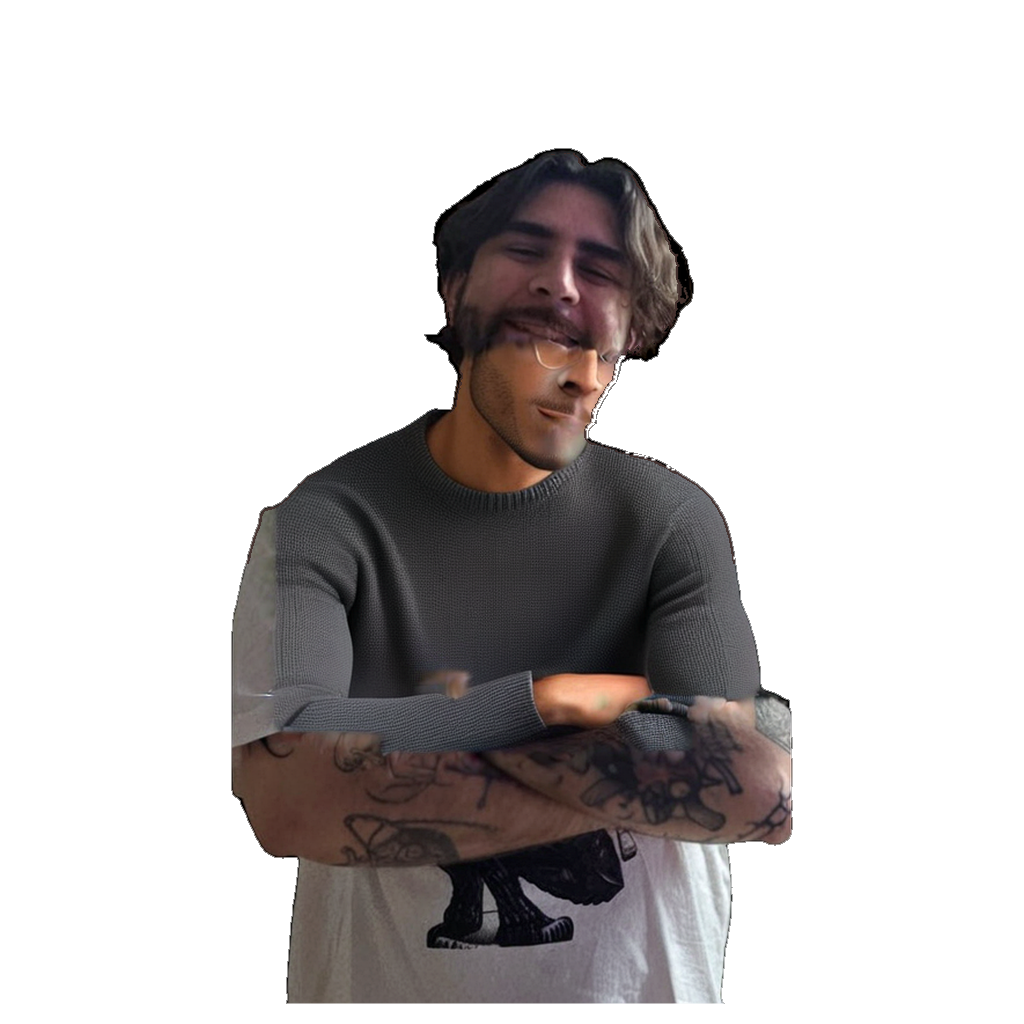
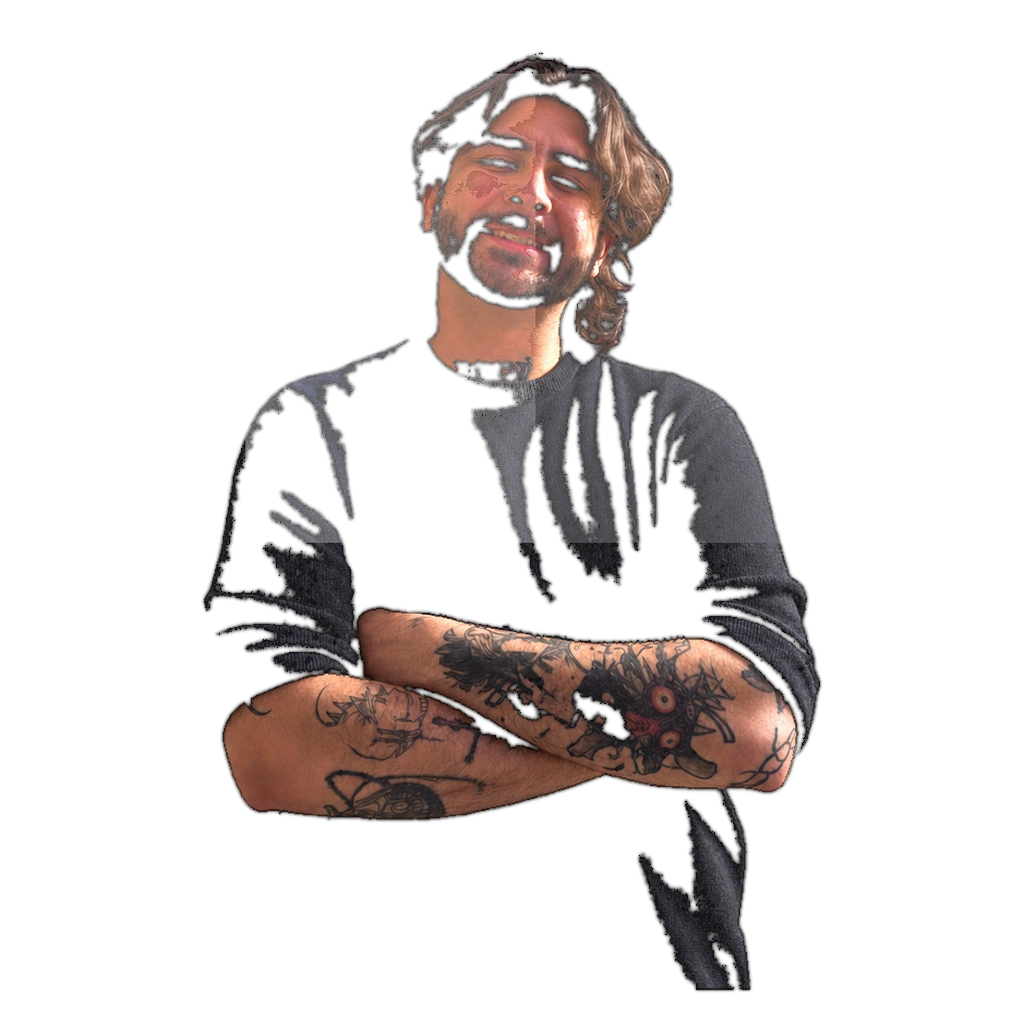
Restore previous portrait asset with all portrait effects removed.

diff --git a/src/components/about/PortraitStage.tsx b/src/components/about/PortraitStage.tsx
@@ -12,24 +12,6 @@ export default function PortraitStage({ src, name, roleDe, roleEn }: Props) {
 
   return (
     <div className="portrait-stage relative mx-auto w-full max-w-[560px]">
-      {/* Orbit stays outside the cutout — no overlays on the face */}
-      <motion.div
-        aria-hidden
-        className="pointer-events-none absolute inset-[-4%]"
-        animate={reduce ? undefined : { rotate: 360 }}
-        transition={reduce ? undefined : { duration: 36, repeat: Infinity, ease: 'linear' }}
-      >
-        <motion.div
-          className="absolute inset-0 rounded-full border border-dashed border-[color-mix(in_srgb,var(--ice)_18%,transparent)]"
-          initial={reduce ? { opacity: 0.25 } : { opacity: 0, scale: 0.94, rotate: -8 }}
-          animate={reduce ? { opacity: 0.25 } : { opacity: 0.55, scale: 1, rotate: 0 }}
-          transition={{ duration: 1.2, delay: 0.15, ease: [0.25, 0.46, 0.45, 0.94] }}
-        >
-          <span className="absolute left-1/2 top-0 h-1.5 w-1.5 -translate-x-1/2 -translate-y-1/2 rounded-full bg-[var(--ember)] opacity-70" />
-          <span className="absolute bottom-[18%] right-0 h-1.5 w-1.5 translate-x-1/2 rounded-full bg-[var(--ice)] opacity-60" />
-        </motion.div>
-      </motion.div>
-
       <p
         aria-hidden
         className="pointer-events-none absolute -left-2 top-1/2 hidden -translate-y-1/2 -rotate-90 origin-center whitespace-nowrap font-[family-name:var(--font-display)] text-[0.72rem] font-bold tracking-[0.35em] uppercase text-[var(--meta)] md:block"
@@ -39,16 +21,16 @@ export default function PortraitStage({ src, name, roleDe, roleEn }: Props) {
 
       <motion.div
         className="portrait-cut relative"
-        initial={reduce ? false : { opacity: 0, y: 28 }}
+        initial={reduce ? false : { opacity: 0, y: 24 }}
         animate={{ opacity: 1, y: 0 }}
-        transition={{ duration: 0.9, ease: [0.215, 0.61, 0.355, 1] }}
+        transition={{ duration: 0.8, ease: [0.215, 0.61, 0.355, 1] }}
       >
         <img
           src={src}
           alt={`Portrait von ${name}`}
           width={1024}
           height={1024}
-          className="portrait-cut__img relative z-10"
+          className="portrait-cut__img"
           data-edit-img="img.portrait"
           decoding="async"
         />
@@ -57,9 +39,9 @@ export default function PortraitStage({ src, name, roleDe, roleEn }: Props) {
       <motion.div
         className="absolute bottom-1 right-1 z-20 max-w-[11.5rem] rounded-2xl border border-[var(--stroke)] bg-[var(--panel)] px-3.5 py-3 shadow-[var(--lg-depth)]"
         style={{ backdropFilter: 'var(--frost-nav)', WebkitBackdropFilter: 'var(--frost-nav)' }}
-        initial={reduce ? false : { opacity: 0, y: 16 }}
+        initial={reduce ? false : { opacity: 0, y: 12 }}
         animate={{ opacity: 1, y: 0 }}
-        transition={{ delay: 0.55, type: 'spring', stiffness: 160, damping: 20 }}
+        transition={{ delay: 0.4, type: 'spring', stiffness: 160, damping: 20 }}
       >
         <p className="text-[0.78rem] font-semibold uppercase leading-tight tracking-[0.08em] text-[var(--text)]">
           <span data-lang="de" data-edit="about.role.de">

diff --git a/src/styles/global.css b/src/styles/global.css
@@ -2935,37 +2935,15 @@ html.js-reveal [data-reveal].is-in {
 .portrait-stage {
   position: relative;
 }
-/* No colored glow / blend behind the face — only a soft floor shadow */
 .portrait-cut {
-  position: relative;
   width: min(100%, 540px);
   margin-inline: auto;
-  isolation: isolate;
-}
-.portrait-cut::after {
-  content: "";
-  position: absolute;
-  left: 18%;
-  right: 18%;
-  bottom: 2%;
-  height: 12%;
-  z-index: 0;
-  border-radius: 50%;
-  background: radial-gradient(ellipse at center, rgba(0, 0, 0, 0.4), transparent 70%);
-  filter: blur(14px);
-  pointer-events: none;
 }
 .portrait-cut__img {
-  position: relative;
-  z-index: 1;
   width: 100%;
   height: auto;
   object-fit: contain;
-  filter: none !important;
-  mix-blend-mode: normal !important;
-  opacity: 1 !important;
-  -webkit-backface-visibility: hidden;
-  backface-visibility: hidden;
+  display: block;
 }
 
 .rule {